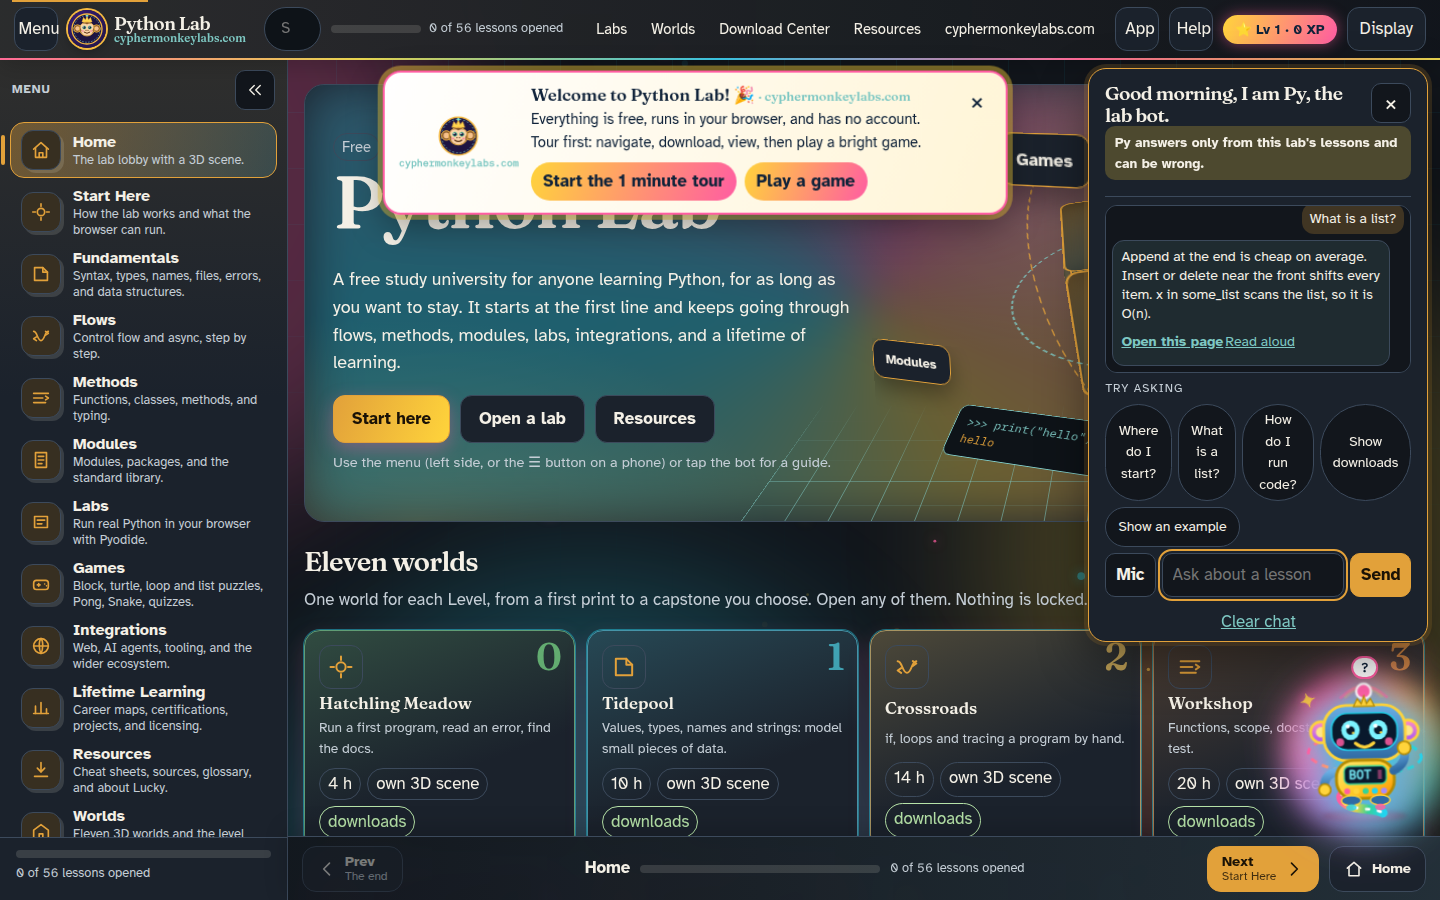
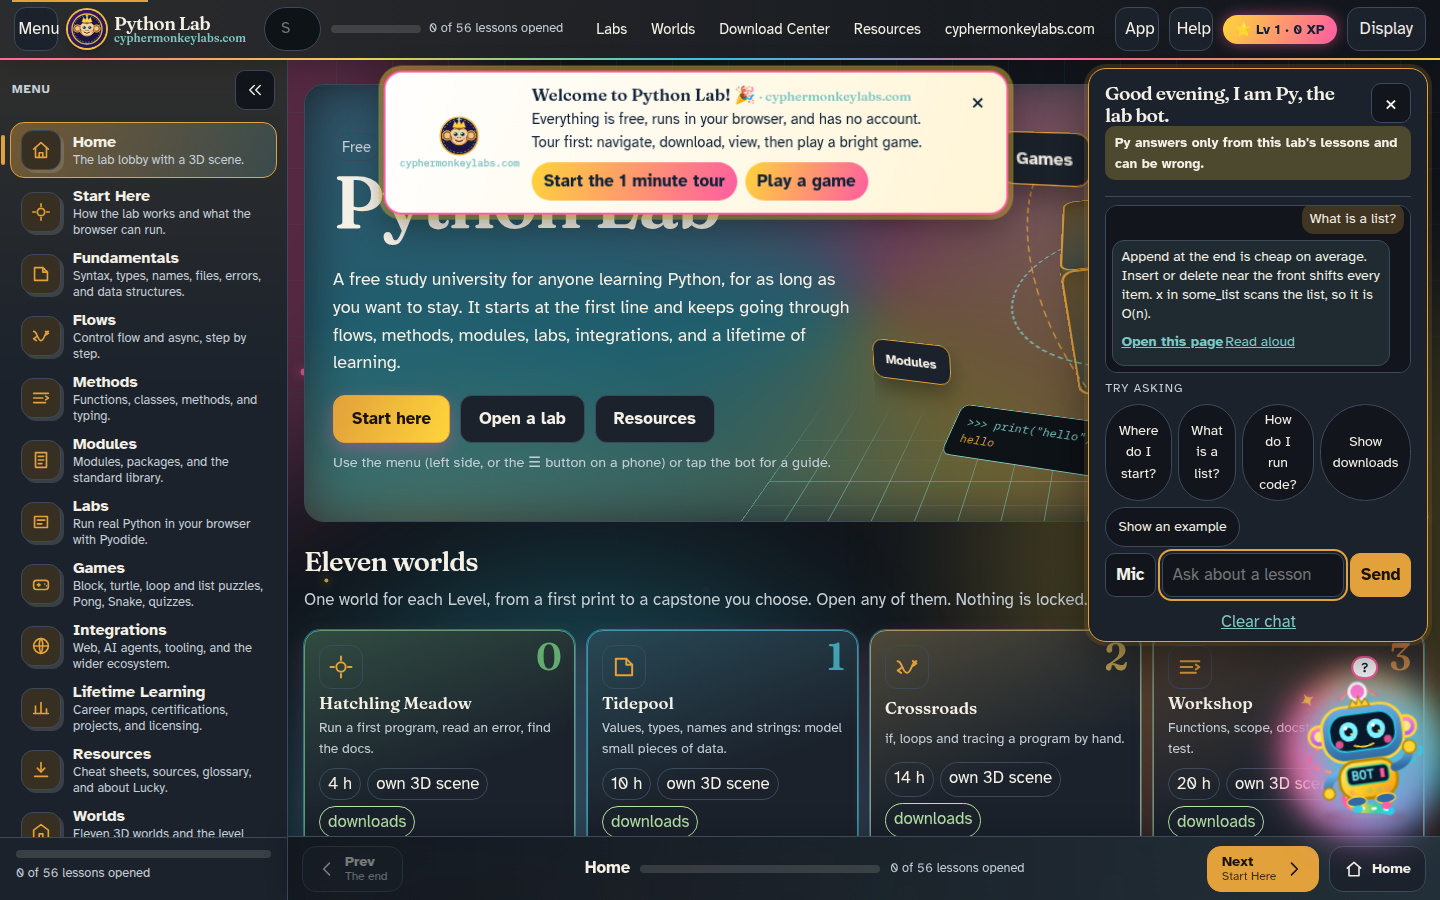
Keep the chat field inside the panel on a short screen.
The lesson list shrinks first, and under 560px of height the field stays pinned above the bot. Playwright covers 1440, 390x844, and a 390x430 keyboard-height viewport.

diff --git a/shared/pybot-chat/chat.css b/shared/pybot-chat/chat.css
@@ -7,8 +7,7 @@
   padding-top: 8px;
   border-top: 1px solid var(--line);
   background: var(--bg-elev);
-  flex: 0 1 auto;
-  min-height: 0;
+  flex: 0 0 auto;
 }
 .bot-panel {
   display: flex;
@@ -18,13 +17,16 @@
 }
 .bp-head,
 .bp-bot,
+.py-chat-try,
+.py-chat-examples,
+.py-chat-chips,
 .py-chat-form,
 .py-chat > .bp-link { flex: 0 0 auto; }
 .bp-scroll { overflow: auto; min-height: 0; flex: 1 1 auto; }
 .py-chat-log {
   max-height: 112px;
   min-height: 0;
-  flex: 1 1 auto;
+  flex: 0 1 auto;
   overflow: auto;
   display: flex;
   flex-direction: column;
@@ -82,11 +84,20 @@
   .bot-panel { padding: 6px 8px; }
   .bp-bot { display: none; }
   .bp-head h2 { font-size: 0.95rem; line-height: 1.2; }
-  .py-chat { margin-top: 4px; padding-top: 4px; gap: 4px; }
+  .bp-scroll { flex: 0 1 0; }
+  .py-chat {
+    flex: 1 1 auto;
+    min-height: 0;
+    margin-top: 4px;
+    padding-top: 4px;
+    gap: 4px;
+    overflow: hidden;
+  }
   .py-chat-try,
-  .py-chat-examples { display: none; }
-  .py-chat-log { max-height: 48px; }
-  .py-chat > .bp-link { min-height: 28px; margin: 0; padding: 2px; }
+  .py-chat-examples,
+  .py-chat-chips,
+  .py-chat > .bp-link { display: none; }
+  .py-chat-log { flex: 1 1 auto; max-height: 36px; min-height: 0; }
 }
 @media (prefers-reduced-motion: reduce) {
   .bot-panel { animation: none; }
